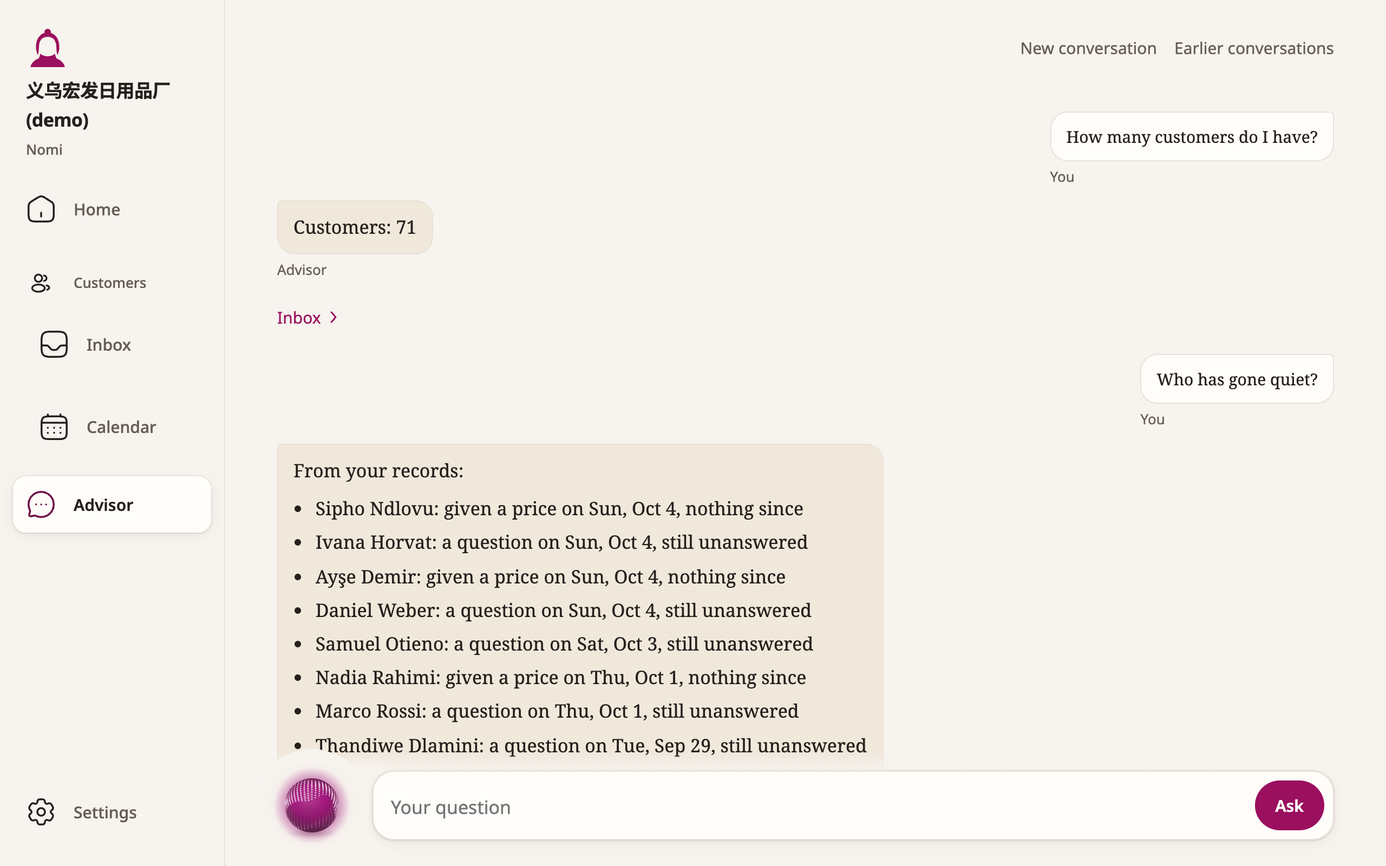
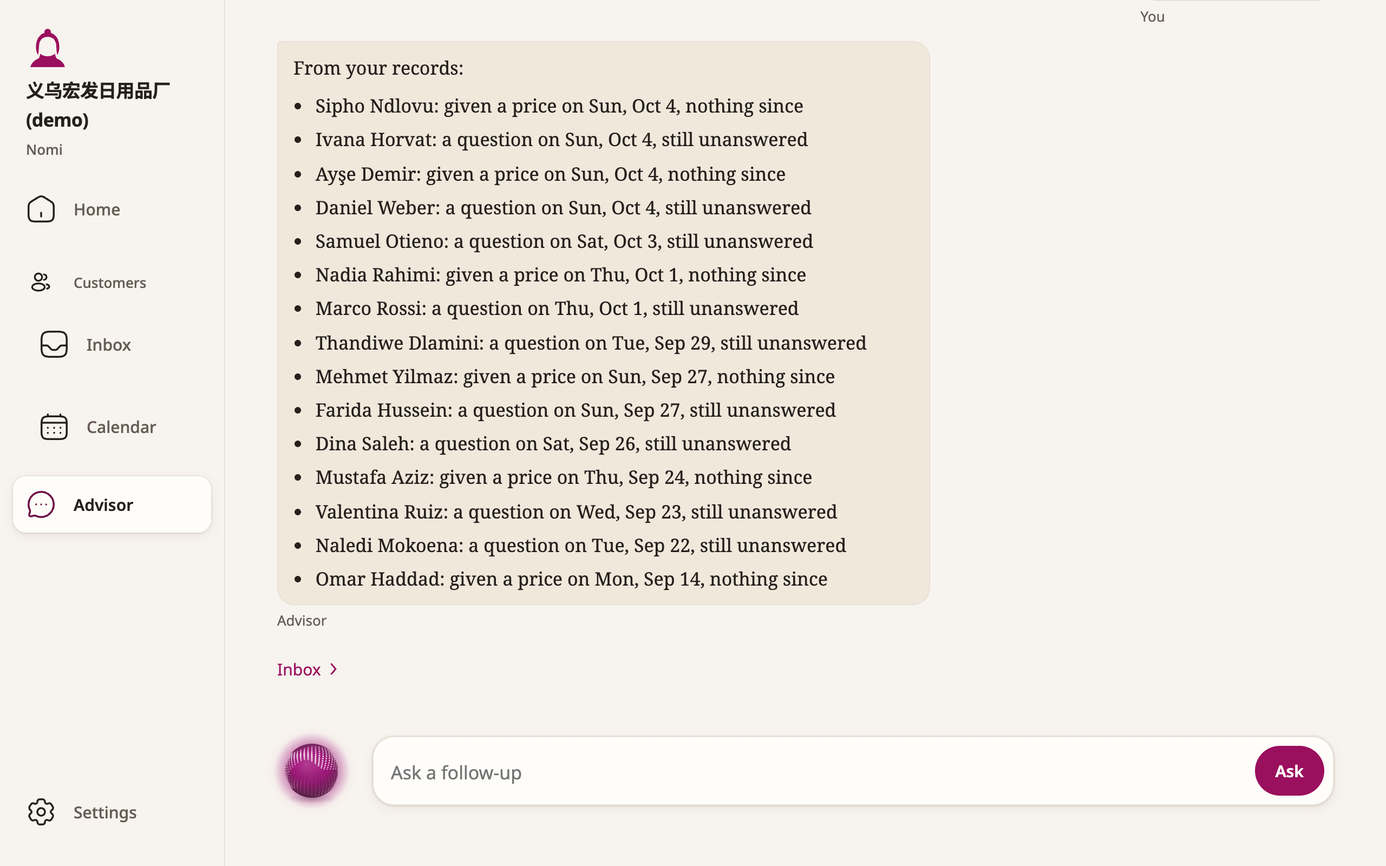
The advisor's page: the owner's four changes — follow-up, softer light, the end in view, one answer block
- After the first answer the box says "Ask a follow-up" (继续提问 / سؤال للمتابعة /
  Haz una pregunta de seguimiento / Poser une question de suivi), never "Your question";
  the hidden label keeps its words.
- The empty page's light keeps close and soft: #A1127A still its deepest point, at the
  orb's centre, falling three times as fast, reaching 2.6 orb-radii across and 2.1 up and
  down. The paper holds the page; still dithered, no bands.
- A talking page opens at its end, so the newest answer's last line is above the
  composer (it opened at the top, the answer under the composer). The composer is in
  the page's flow and keeps its own height free at the end: no extra padding, which
  would have left an empty band.
- Every answer is the same block, the reading measure wide, however short.
- The pool beside the small orb is the glow made thin, never paper: an answer passing
  under the bar no longer shows a pale arc above the orb.

Each new guard broken on purpose fails its own test (22 in all); the bar's limit on the
light is now tested on a short screen too.

diff --git a/tests/parity/advisor-orb.test.ts b/tests/parity/advisor-orb.test.ts
@@ -168,7 +168,7 @@ const LINES = ['Who is waiting for me?', 'How much did we sell this month?', 'Wh
  * start (64) and the box 24 px on; the pool (128) round that place, the small orb's canvas (96) on it.
  */
 function page(o: { advisor?: boolean; resting?: boolean; reduce?: boolean; light?: string; glow?: string; dark?: string; width?: number; orbUrl?: string;
-  restOnOtherPage?: boolean; glowSaid?: string; motion?: boolean } = {}) {
+  restOnOtherPage?: boolean; glowSaid?: string; motion?: boolean; barTop?: number } = {}) {
   const body = new El('BODY');
   const main = body.appendChild(new El('MAIN'));
   const resting = o.resting !== false;
@@ -196,7 +196,7 @@ function page(o: { advisor?: boolean; resting?: boolean; reduce?: boolean; light
       return frag;
     } };
     form = shell.appendChild(new El('FORM', { 'data-orb': o.orbUrl ?? ORB_URL, 'data-orb-state': 'composing', 'data-orb-glow': o.glowSaid ?? 'orb-glow',
-      ...(resting ? { 'data-adv-suggest': LINES.join('\n') } : {}) }, { left: 0, top: 600, width: 900, height: 100 }));
+      ...(resting ? { 'data-adv-suggest': LINES.join('\n') } : {}) }, { left: 0, top: o.barTop ?? 600, width: 900, height: 100 }));
     const slot = form.appendChild(new El('SPAN', { class: 'adv-slot' }, { left: 0, top: 618, width: 64, height: 64 }));
     pool = slot.appendChild(new El('CANVAS', { class: 'adv-pool', 'data-adv-pool': '' }, { left: -32, top: 586, width: 128, height: 128 }));
     here = slot.appendChild(new El('CANVAS', { class: 'orb', 'data-orb-here': '' }, { left: -16, top: 602, width: 96, height: 96 }));
@@ -215,14 +215,15 @@ function page(o: { advisor?: boolean; resting?: boolean; reduce?: boolean; light
   const vars: Record<string, string> = { '--color-orb-glow': o.glow ?? TOKENS.orbGlow, '--color-surface': o.light ?? TOKENS.surface,
     '--color-ink': o.dark ?? TOKENS.ink, '--color-paper': TOKENS.paper, '--color-needs': TOKENS.needs, '--color-brand': TOKENS.brand };
   const doc = {
-    readyState: 'loading', visibilityState: 'visible', documentElement: {}, body, activeElement: null as El | null,
+    readyState: 'loading', visibilityState: 'visible', documentElement: {}, scrollingElement: { scrollHeight: 2400 }, body, activeElement: null as El | null,
     querySelector: (sel: string) => body.querySelector(sel),
     querySelectorAll: () => [],
     createElement: (tag: string) => { const e = new El(tag.toUpperCase()); if (o.motion) e.animate = (frames, opts) => { e.anims.push({ frames, opts }); return { onfinish: null, cancel() {} }; }; return e; },
     addEventListener: (type: string, fn: (e: unknown) => void) => { (docListeners[type] ??= []).push(fn); },
   };
   const win = {
-    devicePixelRatio: 2, innerWidth: 1280,
+    devicePixelRatio: 2, innerWidth: 1280, scrollY: 0, scrolls: [] as number[],
+    scrollTo(_x: number, y: number) { win.scrolls.push(y); win.scrollY = y; },
     matchMedia: (q: string) => ({ matches: q.includes('reduced-motion') ? !!o.reduce : false, addEventListener() {}, addListener() {} }),
     getComputedStyle: () => ({ getPropertyValue: (n: string) => vars[n] ?? '' }),
     requestAnimationFrame: (fn: (now: number) => void) => { frames.push(fn); return frames.length; },
@@ -241,7 +242,7 @@ function page(o: { advisor?: boolean; resting?: boolean; reduce?: boolean; light
   });
   const settle = () => new Promise<void>((r) => setTimeout(r, 30));
   return {
-    body, main, shell, rest, form, box, tpl, timeline, frames, doc, field, pool, here, now: () => clock,
+    body, main, shell, rest, form, box, tpl, timeline, frames, doc, win, field, pool, here, now: () => clock,
     run: () => new vm.Script(LIVE_SCRIPT, { importModuleDynamically: vm.constants.USE_MAIN_CONTEXT_DEFAULT_LOADER }).runInContext(context),
     /** The page finishes loading, and the orb's file arrives. */
     async load() { doc.readyState = 'complete'; for (const fn of winListeners['load'] ?? []) fn({}); for (let i = 0; i < 6; i++) await settle(); },
@@ -407,29 +408,67 @@ describe('the lit field and the pool (the redesign): deepest at the orb, no band
       expect(gg).toBeGreaterThanOrEqual(glow.g - 2);
     }
     // where it fades out it is the paper itself, to a step: no seam where it ends
-    const near = px(img, 900 - 2 * 440, 528);
-    if (near[3]) expect(Math.abs(near[0] - paper.r) + Math.abs(near[1] - paper.g) + Math.abs(near[2] - paper.b)).toBeLessThanOrEqual(6);
+    const near = px(img, 900 - 2 * 246, 528);
+    expect(near[3]).toBe(255);
+    expect(Math.abs(near[0] - paper.r) + Math.abs(near[1] - paper.g) + Math.abs(near[2] - paper.b)).toBeLessThanOrEqual(6);
   });
 
-  it('the field is gone before the bar: every pixel on the bar\'s line and below it is clear', async () => {
+  it('the field keeps close and soft: the paper holds the page, the glow a presence round the orb, never a cloud', async () => {
     const p = page({ reduce: true });
     p.run(); await p.load();
     const img = p.field.ctx.images.at(-1)!;
-    for (let y = 2 * 600 - 48; y < img.height; y += 7) for (let x = 0; x < img.width; x += 11) expect(px(img, x, y)[3], `${x},${y}`).toBe(0);
+    const glow = hex(TOKENS.orbGlow); const paper = hex(TOKENS.paper);
+    // the orb is 192 px (its canvas 288): across, nothing past 2.6 of its radii (250 px); up and down, past 2.1 (202 px)
+    for (const x of [900 - 2 * 254, 900 + 2 * 254]) expect(px(img, x, 528)[3], `x ${x}`).toBe(0);
+    expect(px(img, 900, 528 - 2 * 206)[3]).toBe(0);
+    expect(px(img, 900, 528 + 2 * 206)[3]).toBe(0);
+    // at the orb's own edge it is already mostly paper: a third of the way to the glow, at most
+    const lit = (x: number) => (paper.g - px(img, x, 528)[1]) / (paper.g - glow.g);
+    expect(lit(900 + 2 * 100)).toBeLessThan(0.36);
+    expect(lit(900 + 2 * 100)).toBeGreaterThan(0.2);
+    // and what is lit more than a tenth of the way to the glow is less than a tenth of the page
+    let litPx = 0;
+    for (let y = 0; y < img.height; y += 4) for (let x = 0; x < img.width; x += 4) {
+      const [, g, , a] = px(img, x, y);
+      if (a && (paper.g - g) / (paper.g - glow.g) > 0.1) litPx += 1;
+    }
+    expect(litPx / ((img.height / 4) * (img.width / 4))).toBeLessThan(0.1);
+  });
+
+  it('the field is gone before the bar: every pixel on the bar\'s line and below it is clear — on a short screen too', async () => {
+    // a tall screen, and a short one (a 13-inch laptop, a phone) where the bar is nearer the orb than the light reaches
+    for (const bar of [600, 420]) {
+      const p = page({ reduce: true, barTop: bar });
+      p.run(); await p.load();
+      const img = p.field.ctx.images.at(-1)!;
+      for (let y = 2 * bar - 48; y < img.height; y += 7) for (let x = 0; x < img.width; x += 11) expect(px(img, x, y)[3], `${bar}: ${x},${y}`).toBe(0);
+      // on the short screen it is lit down to near the bar: cut short by it, not missing (on the tall one the light
+      // ends of itself, well above)
+      if (bar === 420) expect(px(img, 900, 2 * (bar - 24 - 30))[3]).toBe(255);
+    }
   });
 
   it('no bands: the fall from the orb is dithered — along any line out of it, no colour holds for more than a few pixels', async () => {
     const p = page({ reduce: true });
     p.run(); await p.load();
     const img = p.field.ctx.images.at(-1)!;
+    const paper = hex(TOKENS.paper);
+    // out from the orb's edge, as far as the light still shows: a sixteen-pixel average a step and a half or more
+    // from the paper (past that, a pixel held is the paper itself, not a band)
+    const line: [number, number, number][] = [];
+    for (let x = 900 + 2 * 96; x < 1800; x++) { const [r, g, b, a] = px(img, x, 528); if (!a) break; line.push([r, g, b]); }
+    let end = line.length;
+    for (let i = 0; i + 16 <= line.length; i++) {
+      const avg = line.slice(i, i + 16).reduce((s, c) => s + c[1], 0) / 16;
+      if (paper.g - avg < 1.5) { end = i; break; }
+    }
+    expect(end).toBeGreaterThan(100);                                     // a fall long enough to band, undithered
     let longest = 0; let run = 0; let was = '';
-    for (let x = 900 + 300; x < 1800; x++) {
-      const [r, g, b, a] = px(img, x, 528);
-      if (!a) break;
+    for (const [r, g, b] of line.slice(0, end)) {
       const now = `${r},${g},${b}`;
       run = now === was ? run + 1 : 1; was = now; longest = Math.max(longest, run);
     }
-    // undithered, a fall over a few hundred pixels and some 90 steps holds each colour for several pixels running
+    // undithered, the slow end of that fall holds each colour for a dozen pixels and more
     expect(longest).toBeLessThanOrEqual(6);
     expect(LIVE_SCRIPT).toMatch(/noise\(\) \+ noise\(\) - 1/);
   });
@@ -441,10 +480,16 @@ describe('the lit field and the pool (the redesign): deepest at the orb, no band
     const img = p.pool!.ctx.images.at(-1)!;
     expect(img.width).toBe(256);                                         // 128 css px
     const glow = hex(TOKENS.orbGlow); const paper = hex(TOKENS.paper);
-    const centre = px(img, 128, 128);
-    expect(centre[3]).toBe(255);
-    expect(centre[1]).toBeLessThan(paper.g);                            // lit
-    expect(centre[1]).toBeGreaterThan(glow.g + 20);                     // and softer than the field's deepest
+    // on the paper, the centre is lit, and softer than the field's deepest
+    const [, , , ca] = px(img, 128, 128);
+    const onPaper = paper.g + (glow.g - paper.g) * (ca / 255);
+    expect(onPaper).toBeLessThan(paper.g - 20);
+    expect(onPaper).toBeGreaterThan(glow.g + 20);
+    // every pixel it draws is the glow made thin, never paper: what passes under the bar is tinted, never covered
+    for (let y = 0; y < img.height; y += 2) for (let x = 0; x < img.width; x += 2) {
+      const [r, g, b, a] = px(img, x, y);
+      if (a) expect([r, g, b], `${x},${y}`).toEqual([glow.r, glow.g, glow.b]);
+    }
     // the box begins 56 px from the orb's centre: by then (and 4 px before it) nothing is drawn
     for (let y = 0; y < img.height; y += 3) expect(px(img, 128 + 2 * 52, y)[3], `y ${y}`).toBe(0);
     expect(p.shell.getAttribute('data-adv')).toBe('chat');
@@ -660,6 +705,19 @@ describe('the guard: on the advisor\'s page only, resting or thinking, and only 
     expect(drawn(q.here!).slice(-50)).toEqual(calm);
   });
 
+  it('a page that opens talking opens at its end, the newest answer above the bar; again once loaded, unless the owner scrolled', async () => {
+    const p = page({ resting: false }); p.run();
+    expect(p.win.scrolls).toEqual([2400]);
+    await p.load();
+    expect(p.win.scrolls).toEqual([2400, 2400]);
+    const q = page({ resting: false }); q.run();
+    q.win.scrollY = 900;                                                 // the owner scrolled back up before it loaded
+    await q.load();
+    expect(q.win.scrolls).toEqual([2400]);
+    const r = page(); r.run(); await r.load();                           // the empty page stays where it is
+    expect(r.win.scrolls).toEqual([]);
+  });
+
   it('no third state: a blank question, a second press, or another form draws nothing new', async () => {
     const blank = page(); blank.run(); await blank.load();
     await blank.ask('   ');
@@ -734,6 +792,10 @@ describe('the guard, server side: the page draws the orb only on the advisor, an
     expect(layout.match(/ORB_JS/g)).toHaveLength(1);                 // defined, and linked nowhere in the shell
     const advisor = readFileSync(join(ROOT, 'src/api/web/advisor.ts'), 'utf8');
     expect(advisor.match(/\$\{ORB_JS\}/g)).toHaveLength(1);           // named once, on the advisor's form
+  });
+
+  it('every answer is the same block, short or long: the reading measure wide, never sized to its words', () => {
+    expect(APP_CSS).toContain('.adv-line .msg.inbound { max-width:var(--measure-prose); inline-size:100%; }');
   });
 
   it('scripting off: no orb, no field and no place beside the bar from the first paint — plain paper, the greeting and the bar; nothing shifts', () => {

diff --git a/src/api/web/liveScript.ts b/src/api/web/liveScript.ts
@@ -670,9 +670,13 @@ export const LIVE_SCRIPT = `/* Nomi: the line a page shows when something new ar
   }
   /* The lit field (the redesign, 2026-10-08): the orb's glow at its centre falling to nothing at the edges,
      drawn pixel by pixel with half a step of noise in each channel, so the fall shows no bands; a pixel the
-     fall does not reach is left clear, and the paper shows. r: how far it reaches up, down, back and on. */
+     fall does not reach is left clear, and the paper shows. r: how far it reaches up, down, back and on.
+     o.depth: how deep at the centre; o.fall: how fast it falls (higher: sooner to the paper); o.clear: drawn as
+     the glow made thin, never as paper, for light that whatever passes beneath must show through. */
   function smoother(x) { x = x <= 0 ? 0 : x >= 1 ? 1 : x; return x * x * x * (x * (x * 6 - 15) + 10); }
-  function wash(canvas, cx, cy, r, depth, paper, glow) {
+  function wash(canvas, cx, cy, r, o) {
+    var paper = o.paper;
+    var glow = o.glow;
     var ctx = canvas.getContext ? canvas.getContext('2d') : 0;
     if (!ctx || !ctx.createImageData) return;
     var dpr = Math.min(2, window.devicePixelRatio || 1);
@@ -695,8 +699,13 @@ export const LIVE_SCRIPT = `/* Nomi: the line a page shows when something new ar
         var q = nx * nx + ny;
         if (q >= 1) continue;
         var f = 1 - smoother(Math.sqrt(q));
-        var t = f * f * depth;
+        var t = Math.pow(f, o.fall) * o.depth;
         var at = (y * W + x) * 4;
+        if (o.clear) {
+          d[at] = glow.r; d[at + 1] = glow.g; d[at + 2] = glow.b;
+          d[at + 3] = 255 * t + noise() + noise() - 1;
+          continue;
+        }
         d[at] = paper.r + (glow.r - paper.r) * t + noise() + noise() - 1;
         d[at + 1] = paper.g + (glow.g - paper.g) * t + noise() + noise() - 1;
         d[at + 2] = paper.b + (glow.b - paper.b) * t + noise() + noise() - 1;
@@ -838,10 +847,14 @@ export const LIVE_SCRIPT = `/* Nomi: the line a page shows when something new ar
       var cx = o.left + o.width / 2 - a.left;
       var cy = o.top + o.height / 2 - a.top;
       var side = Math.min(cx, a.width - cx) - 8;
-      var down = Math.min(b.top - a.top - cy - 24, side * 1.25);
+      /* Close round the orb (its canvas holds a margin of half its size, so its radius is a third of the
+         canvas): a soft presence the paper holds, never a cloud that fills the page. Wider than it is tall. */
+      var orb = o.width / 3;
+      var wide = Math.max(48, Math.min(side, orb * 2.6));
+      var tall = orb * 2.1;
+      var down = Math.min(b.top - a.top - cy - 24, tall);
       if (down < 48) return;
-      /* A pool, wider than it is tall: never a column of light on a narrow screen. */
-      wash(field, cx, cy, { up: Math.max(48, Math.min(cy - 8, side * 1.25)), down: down, back: Math.max(48, cx - 8), on: Math.max(48, a.width - cx - 8) }, 1, paper, glow);
+      wash(field, cx, cy, { up: Math.max(48, Math.min(cy - 8, tall)), down: down, back: wide, on: wide }, { depth: 1, fall: 3, paper: paper, glow: glow });
     }
     function litPool() {
       if (!pool || !here || !paper || !glow) return;
@@ -852,7 +865,7 @@ export const LIVE_SCRIPT = `/* Nomi: the line a page shows when something new ar
       var c = slot.left + slot.width / 2;
       var edge = Math.min(Math.abs(bx.left - c), Math.abs(bx.right - c)) - 4;
       var reach = Math.max(16, Math.min(p.width / 2, edge));
-      wash(pool, p.width / 2, p.height / 2, { up: reach, down: reach, back: reach, on: reach }, 0.6, paper, glow);
+      wash(pool, p.width / 2, p.height / 2, { up: reach, down: reach, back: reach, on: reach }, { depth: 0.6, fall: 2, clear: true, paper: paper, glow: glow });
     }
     var restDraw = 0;
     var hereDraw = 0;
@@ -874,6 +887,14 @@ export const LIVE_SCRIPT = `/* Nomi: the line a page shows when something new ar
       litPool();
     }
     if (!rest && page && page.getAttribute('data-adv') === 'chat') settle(Number((rest || here || form).getAttribute('data-orb-pace')) || 0.5);
+    /* Talking: the page opens at its end, the newest answer's last line above the bar, never under it; and
+       again once everything has loaded (type and pictures can lengthen it), unless the owner has scrolled. */
+    if (page && page.getAttribute('data-adv') === 'chat' && window.scrollTo) {
+      var root = doc.scrollingElement || doc.documentElement;
+      var toEnd = function () { window.scrollTo(0, root.scrollHeight); return window.scrollY; };
+      var landed = toEnd();
+      loaded.then(function () { if (Math.abs(window.scrollY - landed) < 2) toEnd(); });
+    }
     var widthWas = window.innerWidth;
     window.addEventListener('resize', function () {
       if (window.innerWidth === widthWas) return;

diff --git a/src/core/owner/i18n/messages.ts b/src/core/owner/i18n/messages.ts
@@ -106,6 +106,7 @@ const EN = {
   // The redesign (2026-10-08): the empty page's greeting, under the orb.
   'advisor.greeting': 'Hello, {name}',
   'advisor.greeting.plain': 'Hello',
+  'advisor.followUp': 'Ask a follow-up',
   'advisor.history.title': 'The advisor\'s history',
   'advisor.history.mine': 'Your advisor conversations',
   'advisor.history.workspace': 'Allow advisor history in this workspace',
@@ -4352,6 +4353,7 @@ const ZH: Record<MessageKey, string> = {
   // The redesign (2026-10-08): the empty page's greeting, under the orb.
   'advisor.greeting': '你好，{name}',
   'advisor.greeting.plain': '你好',
+  'advisor.followUp': '继续提问',
   'advisor.history.title': '顾问的历史记录',
   'advisor.history.mine': '你和顾问的对话',
   'advisor.history.workspace': '在这个工作台允许保存顾问记录',
@@ -8510,6 +8512,7 @@ const AR: Record<MessageKey, string> = {
   // The redesign (2026-10-08): the empty page's greeting, under the orb.
   'advisor.greeting': 'مرحبًا، {name}',
   'advisor.greeting.plain': 'مرحبًا',
+  'advisor.followUp': 'سؤال للمتابعة',
   'advisor.history.title': 'سجل المستشار',
   'advisor.history.mine': 'محادثات المستشار',
   'advisor.history.workspace': 'السماح بسجل المستشار في مساحة العمل هذه',
@@ -12669,6 +12672,7 @@ const ES: Record<MessageKey, string> = {
   // The redesign (2026-10-08): the empty page's greeting, under the orb.
   'advisor.greeting': 'Hola, {name}',
   'advisor.greeting.plain': 'Hola',
+  'advisor.followUp': 'Haz una pregunta de seguimiento',
   'advisor.history.title': 'El historial de la Asesoría',
   'advisor.history.mine': 'Tus conversaciones con la Asesoría',
   'advisor.history.workspace': 'Permitir el historial de la Asesoría en este espacio de trabajo',
@@ -16769,6 +16773,7 @@ const FR: Record<MessageKey, string> = {
   // The redesign (2026-10-08): the empty page's greeting, under the orb.
   'advisor.greeting': 'Bonjour, {name}',
   'advisor.greeting.plain': 'Bonjour',
+  'advisor.followUp': 'Poser une question de suivi',
   'advisor.history.title': 'L’historique du Conseil',
   'advisor.history.mine': 'Vos conversations avec le Conseil',
   'advisor.history.workspace': 'Autoriser l’historique du Conseil dans cet espace de travail',

diff --git a/tests/parity/live-refresh.test.ts b/tests/parity/live-refresh.test.ts
@@ -115,7 +115,9 @@ describe('CC-26 · the shell links the one script, and nothing else does', () =>
     // The advisor's redesign (2026-10-08): the lit field and its pool (dithered, pixel by pixel), the glide
     // beside the bar, the bar making room for it, the typed placeholder and the box held at the longest
     // question's height — 43,337 measured; 33,500 became 44,000, deliberately.
-    expect(LIVE_SCRIPT.length, 'small: one file an owner fetches once per build').toBeLessThan(44_000);
+    // The owner's four changes (2026-10-08): the field closer and softer, the pool drawn as the glow made thin,
+    // and a talking page that opens at its end — 44,947 measured; 44,000 became 46,000, deliberately.
+    expect(LIVE_SCRIPT.length, 'small: one file an owner fetches once per build').toBeLessThan(46_000);
     // The warmth run's re-audit (w4-whole-03/05/22/23, w4-settings-a-15): the rail's words kept on update, the card held while
     // read, a pressed face's busy state, the same-page door, the form checked before asking — 22,451 measured, raised deliberately.
     expect(() => new vm.Script(LIVE_SCRIPT)).not.toThrow();

diff --git a/tests/parity/advisor-build.test.ts b/tests/parity/advisor-build.test.ts
@@ -389,7 +389,9 @@ describe('the page · a fact, a fixed sentence, advice under its label, and the 
       expect(said.match(/<a\s/g)).toHaveLength(2);
       expect(said).toContain(`<a class="adv-link" href="/app/advisor?new=1">${esc(t(l, 'advisor.thread.new'))}</a>`);
       // talking, the box asks plainly; the typed questions are the empty page's alone
-      expect(said).toContain(`placeholder="${esc(t(l, 'advisor.label'))}"`);
+      // once there is an answer, the box asks for a follow-up — never "Your question"
+      expect(said).toContain(`placeholder="${esc(t(l, 'advisor.followUp'))}"`);
+      expect(said).not.toContain(`placeholder="${esc(t(l, 'advisor.label'))}"`);
       expect(said).not.toContain('data-adv-suggest');
       const plain = renderAdvisor(l, { asked: 'how many customers', answer: fact({ phrased: false, text: '' }) });
       expect(plain).toContain(`<p><bdi>${esc(t(l, 'advisor.fallback.head'))}</bdi></p><ul class="adv-facts"><li><bdi>Customers: 12</bdi></li></ul>`);

diff --git a/src/api/web/layout.ts b/src/api/web/layout.ts
@@ -2378,8 +2378,10 @@ const STYLE_PAGES = `
      a voiced one holds several elements, so it opts out and the words opt in. */
   .bubble.voiced { white-space:normal; }
   .bubble.voiced .said { white-space:pre-wrap; }
-  /* The advisor's answer: a sentence, or the facts as a short list, and advice under its own label. */
+  /* The advisor's answer: a sentence, or the facts as a short list, and advice under its own label; every
+     answer the same block, the reading measure wide, however short. */
   .bubble.adv { white-space:normal; }
+  .adv-line .msg.inbound { max-width:var(--measure-prose); inline-size:100%; }
   .bubble.adv p { margin:0; white-space:pre-wrap; }
   .bubble.adv > * + * { margin-top:var(--space-8); }
   .adv-facts { margin:0; padding-inline-start:1.2em; }

diff --git a/src/api/web/advisor.ts b/src/api/web/advisor.ts
@@ -244,7 +244,7 @@ export function renderAdvisor(locale: Locale, exchange: { readonly asked: string
       <span class="adv-box">
         <label class="sr" for="advisor-q">${esc(t(locale, 'advisor.label'))}</label>
         <textarea id="advisor-q" name="q" rows="1" dir="auto" maxlength="${ADVISOR_MAX}" required
-          placeholder="${esc(atRest ? suggest[0]! : t(locale, 'advisor.label'))}"></textarea>
+          placeholder="${esc(atRest ? suggest[0]! : t(locale, 'advisor.followUp'))}"></textarea>
         ${thread ? `<input type="hidden" name="thread" value="${esc(thread)}">` : ''}
         <button class="btn send" type="submit">${esc(t(locale, 'advisor.ask'))}</button>
       </span>

diff --git a/docs/design/advisor-redesign/README.md b/docs/design/advisor-redesign/README.md
@@ -13,6 +13,34 @@ owner's record was born with the business's name. That is not a person's name, s
 it. A person with their own name on record (every sign-up asks for it) gets "Hello, {name}". The tests hold
 both cases.
 
+## The owner's four changes (second round)
+
+Re-rendered on desktop after the owner's four changes:
+
+- **`empty-desktop-en.png`** — the light is softer and closer. #A1127A is still its deepest point, at the orb's
+  centre, but it falls three times as fast and reaches only 2.6 orb-radii across and 2.1 up and down. Less
+  than a tenth of the page is lit more than a tenth of the way to the glow.
+- **`answered-desktop-en.png`** — the page as it opens after two questions:
+  - **At its end:** the newest answer's last line is 105 px above the composer. Before, the page opened at
+    the top and the answer ran under the composer.
+  - **"Ask a follow-up" in the box**, never "Your question". The hidden label for screen readers still says
+    "Your question".
+- **`answered-short-desktop-en.png`** — after one short answer: the same wide block as a long one.
+- **`answered-desktop-en-whole.png`** — the whole conversation: both answers 603 px wide.
+
+**Why no extra padding:** the composer sits in the page's flow, so the end of the page already keeps its
+height free. Bottom padding as well would have left an empty band the composer's size. The page opening at
+its end is what keeps the last line clear of it.
+
+**The pool beside the small orb is now the glow made thin, never paper.** Before, an answer passing under the
+bar showed a pale arc above the orb.
+
+**Banding on the new light:** the longest run of one colour is 3–4 device px on straight lines and 5 on
+diagonals. At six times the contrast there are no rings.
+
+**Not yet redone:** the other files below (phone, the other languages, gliding, thinking, the clips) still
+show the first round's light. They will be rendered again once these are confirmed.
+
 ## Files
 
 - **`empty-{desktop,phone}-{en,zh,ar,es,fr}.png`** — the empty page:
@@ -69,7 +97,7 @@ orb's glow (#A1127A); it never reaches the "needs you" magenta (#6E0C44), and a 
 
 ## Each guard broken on purpose
 
-Sixteen breaks, one at a time. Each made its own test fail, and the code was restored after each.
+Twenty-two breaks, one at a time. Each made its own test fail, and the code was restored after each.
 
 - **Less motion:**
   - the orb glides;
@@ -90,13 +118,20 @@ Sixteen breaks, one at a time. Each made its own test fail, and the code was res
 - **Scripts off:** the orb, the field or the slot shows.
 - **The hidden label:** it is shown, or gone.
 - **The greeting names the business.**
+- **The second round:**
+  - the field spreads, or falls, as before;
+  - the pool paints paper;
+  - a talking page opens at the top;
+  - a short answer is sized to its words;
+  - after an answer the box says "Your question".
 
 ## Choices worth a look
 
 1. **The field runs under the main column's side padding**, so it fades out rather than ending at an edge.
-2. **The field stops 24 px above the bar.** Its height is capped at 1.25 times its width, so on a phone it is a
-   pool, not a column.
-3. **The pool beside the bar** is lighter (60 %) and stops 4 px short of the box's edge.
+2. **The field stops 24 px above the bar** and keeps close to the orb: 2.6 orb-radii across and 2.1 up and
+   down. So it is wider than it is tall, on a phone too.
+3. **The pool beside the bar** is lighter (60 %), drawn as the glow made thin, and stops 4 px short of the
+   box's edge.
 4. **The glide takes 560 ms**, longer than the app's other motion, because it is the orb's own movement. The bar
    makes room for the orb over the same 560 ms.
 5. **The bar has a soft top** (16 px of paper fading in), so a conversation that scrolls under it fades instead
